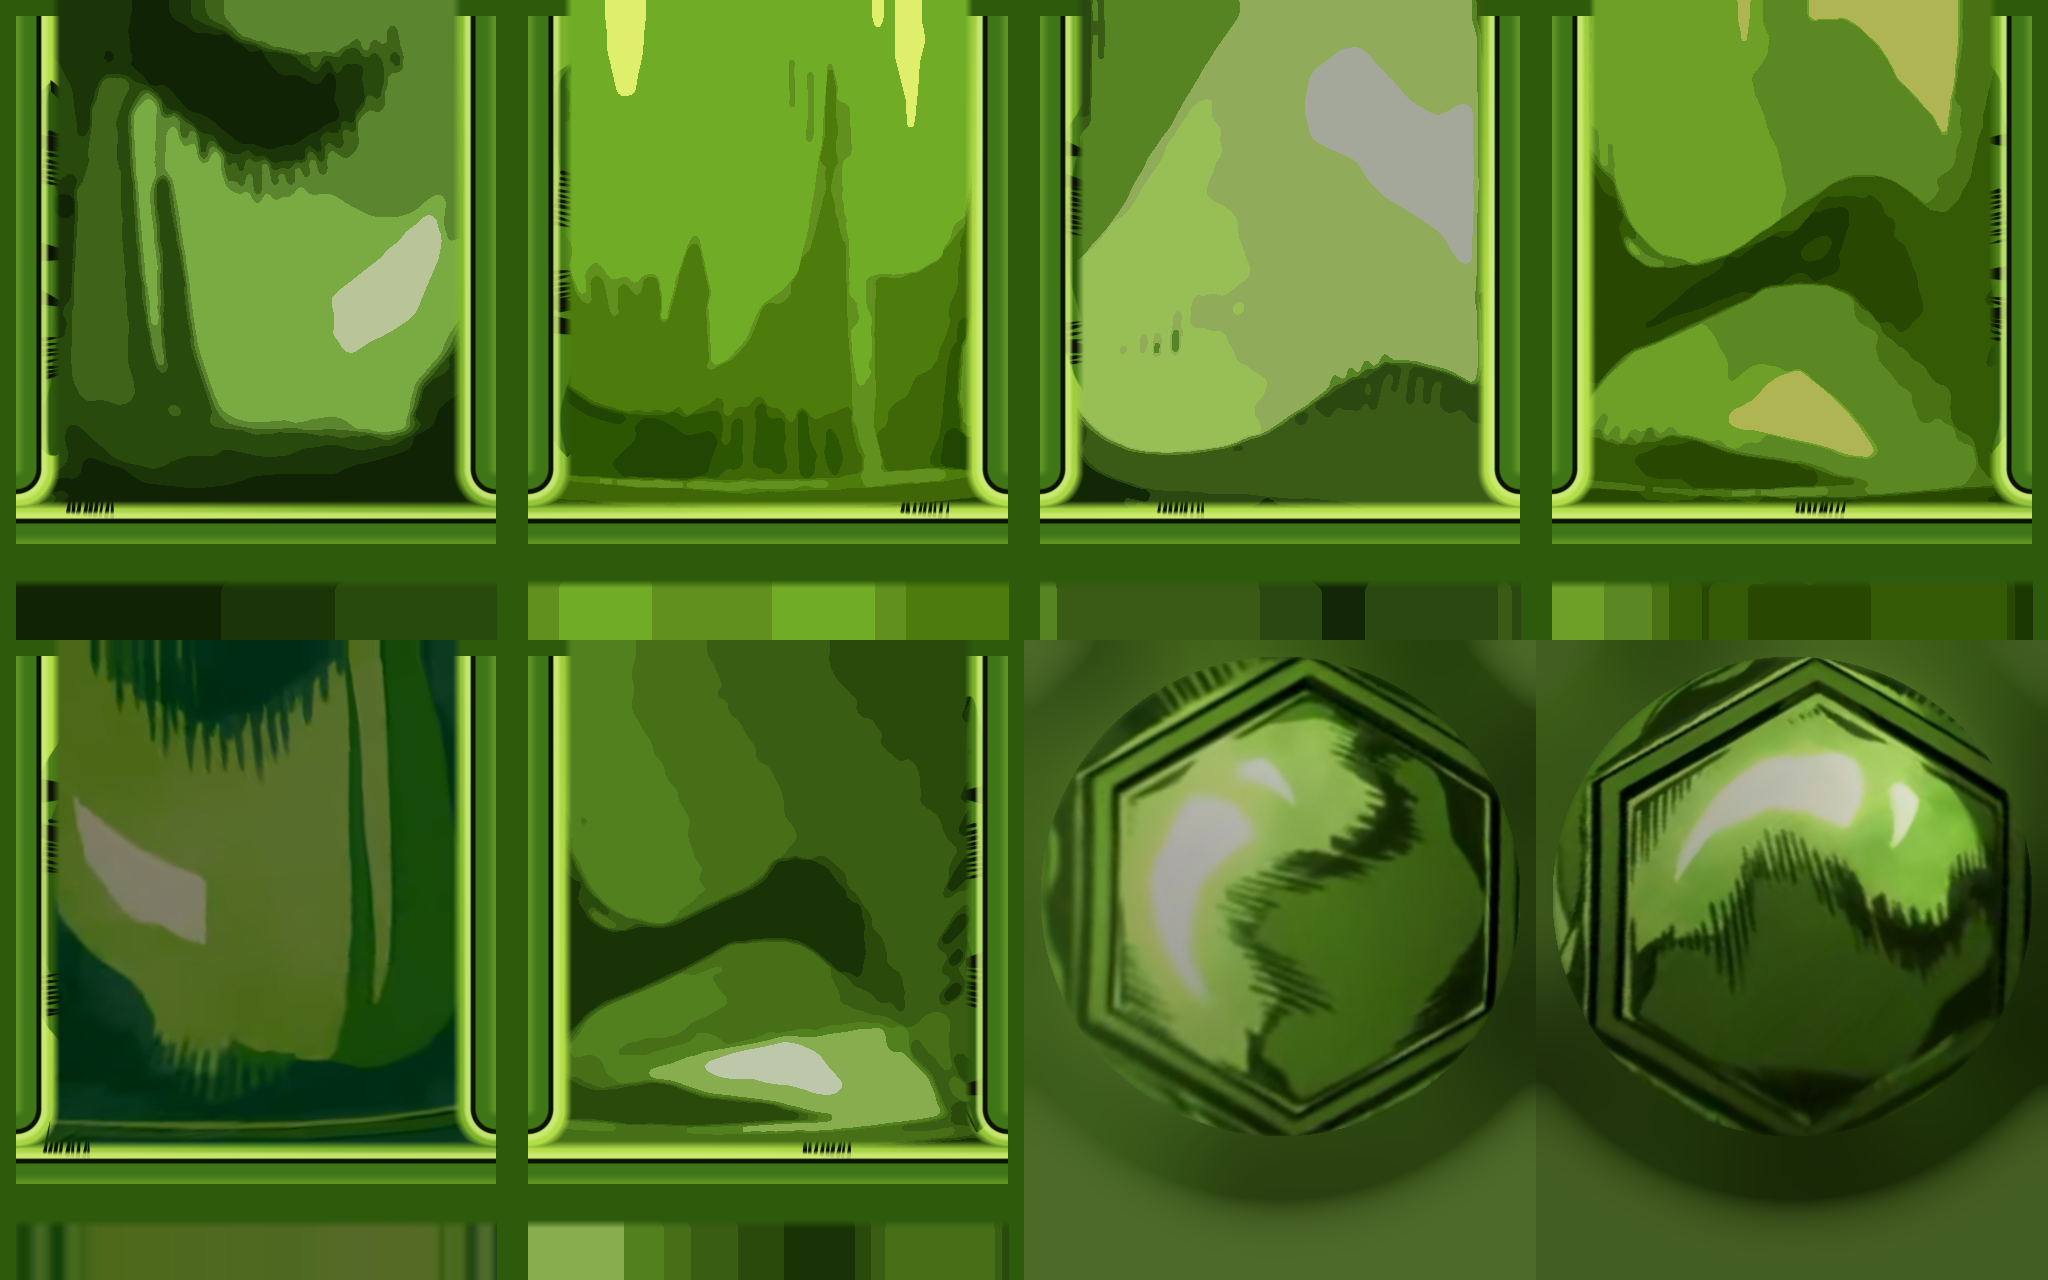
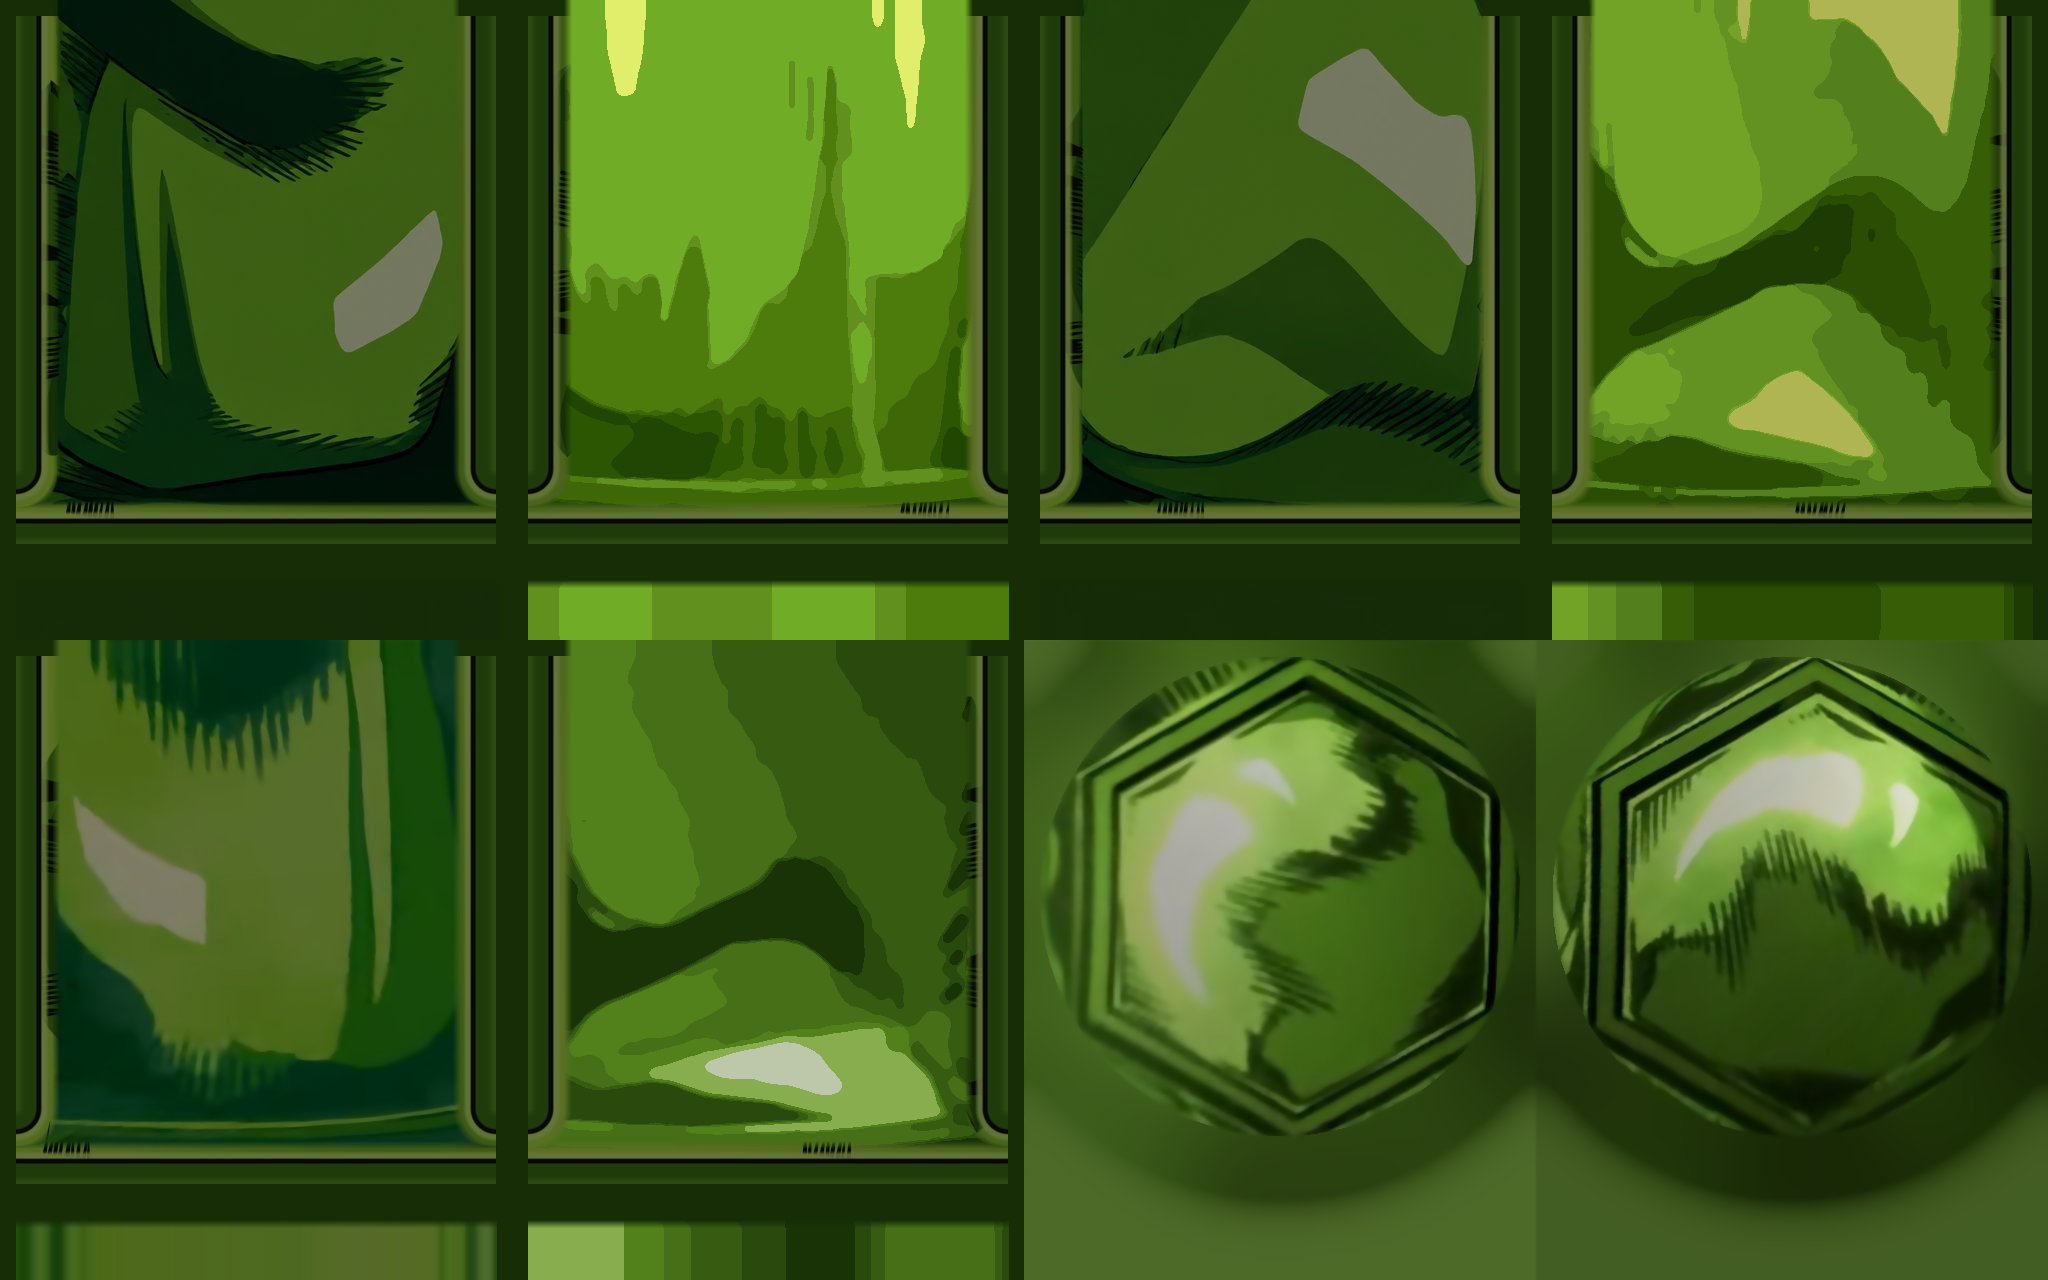
feat(paint): use polished panels 0 and 2, halve groove art to match

diff --git a/src/main.js b/src/main.js
@@ -63,7 +63,7 @@ gui.add(params, 'lean', -90, 90, 1).name('Axis lean');
 gui.add(params, 'friction', 0.05, 3, 0.05).name('Settle rate');
 gui.add(params, 'size', 0.4, 1.3, 0.01).name('Ball size');
 gui.add(params, 'blur').name('Motion blur');
-gui.add(params, 'shadow', 0, 1, 0.01).name('Shadow strength').onChange((v) => (material.uniforms.uShadow.value = v));
+gui.add(params, 'shadow', 0, 1, 0.01).name('Shadow strength').onChange((v) => { if (material.uniforms.uShadow) material.uniforms.uShadow.value = v; });
 gui.add(params, 'streaks').name('Speed lines');
 gui.add(params, 'diagram').name('Golden rectangle');
 gui.add(params, 'diagramSize', 0.8, 3.5, 0.01).name('Rectangle size');

diff --git a/scripts/paint/bake_atlas.py b/scripts/paint/bake_atlas.py
@@ -114,12 +114,21 @@ GROOVE_R=float(sys.argv[2]) if len(sys.argv)>2 else 1.9
 FLAT=int(sys.argv[1]) if len(sys.argv)>1 else 0
 if FLAT:   # flatten: edge-preserving smoothing keeps the ink and cel edges, evens out frame noise
     for _ in range(FLAT): out=cv2.bilateralFilter(out,7,28,5)
+# hand/AI-polished cells: polish/out/cellN.png (512x640, shadow-free full-brightness art) replaces the traced cell.
+# The atlas holds paint at half scale (the shader doubles it), so store it halved.
+import os
+POL=set()
+for cell in range(6):
+    p='../../polish/out/cell%d.png'%cell
+    if os.path.exists(p):
+        x0,y0=(cell%4)*CELL[0],(cell//4)*CELL[1]
+        out[y0:y0+CELL[1],x0:x0+CELL[0]]=(np.asarray(Image.open(p).convert('RGB').resize((CELL[0],CELL[1]))).astype(np.float32)*0.5).astype(np.uint8); POL.add(cell)
 # cel flatten (panels only): mean-shift smooths frame noise, k-means snaps to a few flat colours,
 # a median pass rounds the shape edges. argv[3] = colours per panel (0 = off).
 CEL=int(sys.argv[3]) if len(sys.argv)>3 else 7
 if CEL:
     for cell in range(6):
-        if sel[cell][1]=='p016': continue   # already crisp cel art with no shadow: leave as is
+        if sel[cell][1]=='p016' or cell in POL: continue   # already crisp cel art with no shadow: leave as is
         x0,y0=(cell%4)*CELL[0],(cell//4)*CELL[1]
         t=out[y0:y0+CELL[1],x0:x0+CELL[0]].copy()
         t=cv2.pyrMeanShiftFiltering(t,6,18)
@@ -132,7 +141,7 @@ if CEL:
 # clean grooves: the frames see grooves smeared and at odd angles, so the groove channels, lips and
 # ink lines on the panels come from the procedural starter art (starter.png, = `npm run ink`), the
 # traced paint stays everywhere else. Hexagon cells keep the traced grooves.
-st=np.asarray(Image.open('starter.png').convert('RGB')).astype(np.float32)
+st=np.asarray(Image.open('starter.png').convert('RGB')).astype(np.float32)*0.5   # half scale like the paint
 SEGR=np.radians(60); GW=0.05*458.4
 sEC=np.pi/2-edge_theta(SEGR/2); slotEnd=EDGEY*(1-np.radians(9)/sEC)
 ys,xs=np.mgrid[0:CELL[1],0:CELL[0]].astype(float); lx=xs-PX; ly=ys-PY
